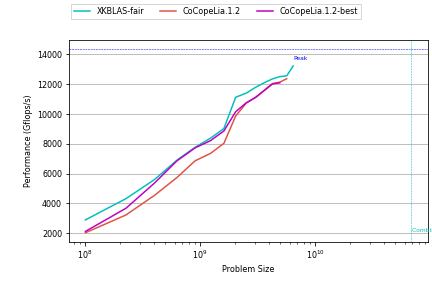
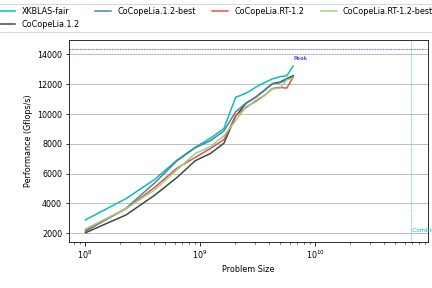
Fixed Rare bug with EXCLUSIVE state, after Datacaching updated.

Changed region(s): [[0.0, 0.0, 1.0, 0.125], [0.1806, 0.25, 0.6921, 0.8125]]

diff --git a/Library_scheduler_03-22/src/Subkernel.cpp b/Library_scheduler_03-22/src/Subkernel.cpp
@@ -169,7 +169,8 @@ void Subkernel::request_tile(short TileIdx){
 			FetchFromId = tmp->RW_master;
 			tmp->RW_master = run_dev_id;
 			if (FetchFromId == run_dev_id) error("Subkernel(dev=%d,id=%d)-Tile(%d.[%d,%d])::request_tile W_flag = %d, \
-			FetchFromId == run_dev_id == %d\n", run_dev_id, id, tmp->id, tmp->GridId1, tmp->GridId2, tmp->W_flag, FetchFromId);
+				FetchFromId == run_dev_id == %d, state[%d] == %s\n",  run_dev_id, id, tmp->id, tmp->GridId1, tmp->GridId2,
+				tmp->W_flag, FetchFromId, FetchFromId, print_state(tmp->StoreBlock[idxize(FetchFromId)]->State));
 		}
 		short FetchFromId_idx = idxize(FetchFromId);
 #ifdef CDEBUG
@@ -234,6 +235,7 @@ void Subkernel::request_data(){
 			Tile1D<VALUE_TYPE>* tmp = (Tile1D<VALUE_TYPE>*) TileList[j];
 			if (tmp->StoreBlock[run_dev_id_idx] == NULL ||
 				tmp->StoreBlock[run_dev_id_idx]->State == INVALID) {
+				if(tmp->StoreBlock[run_dev_id_idx] != NULL) tmp->StoreBlock[run_dev_id_idx]->Owner_p = NULL;
 				state new_block_state;
 				if(tmp->W_flag) new_block_state = EXCLUSIVE;
 				else new_block_state = SHARABLE;
@@ -283,6 +285,7 @@ void Subkernel::request_data(){
 			Tile2D<VALUE_TYPE>* tmp = (Tile2D<VALUE_TYPE>*) TileList[j];
 			if (tmp->StoreBlock[run_dev_id_idx] == NULL ||
 				tmp->StoreBlock[run_dev_id_idx]->State == INVALID) {
+				if(tmp->StoreBlock[run_dev_id_idx] != NULL) tmp->StoreBlock[run_dev_id_idx]->Owner_p = NULL;
 				state new_block_state;
 				if(tmp->W_flag) new_block_state = EXCLUSIVE;
 				else new_block_state = SHARABLE;
@@ -383,7 +386,8 @@ void Subkernel::run_operation(){
 	for (int j = 0; j < TileNum; j++){
 		if (TileDimlist[j] == 1){
 				Tile1D<VALUE_TYPE>* tmp = (Tile1D<VALUE_TYPE>*) TileList[j];
-				if (tmp->StoreBlock[run_dev_id_idx] == NULL)
+				if (tmp->StoreBlock[run_dev_id_idx] == NULL ||
+  tmp->StoreBlock[run_dev_id_idx]->State == INVALID)
 					error("Subkernel(dev=%d,id=%d)-Tile(%d.[%d])::run_operation: Tile(j=%d) Storeblock is NULL\n",
 						run_dev_id, id, tmp->id, tmp->GridId, j);
 				if(tmp->R_flag) exec_queue[run_dev_id_idx]->wait_for_event(tmp->StoreBlock[run_dev_id_idx]->Available);
@@ -393,7 +397,8 @@ void Subkernel::run_operation(){
 		}
 		else if (TileDimlist[j] == 2){
 				Tile2D<VALUE_TYPE>* tmp = (Tile2D<VALUE_TYPE>*) TileList[j];
-				if (tmp->StoreBlock[run_dev_id_idx] == NULL)
+				if (tmp->StoreBlock[run_dev_id_idx] == NULL ||
+  tmp->StoreBlock[run_dev_id_idx]->State == INVALID)
 					error("Subkernel(dev=%d,id=%d)-Tile(%d.[%d,%d])::run_operation: Tile(j=%d) Storeblock is NULL\n",
 						run_dev_id, id, tmp->id, tmp->GridId1, tmp->GridId2, j);
 				if(tmp->R_flag) exec_queue[run_dev_id_idx]->wait_for_event(tmp->StoreBlock[run_dev_id_idx]->Available);
@@ -418,7 +423,8 @@ void Subkernel::run_operation(){
 	for (int j = 0; j < TileNum; j++){
 		if (TileDimlist[j] == 1){
 			Tile1D<VALUE_TYPE>* tmp = (Tile1D<VALUE_TYPE>*) TileList[j];
-			if (tmp->StoreBlock[run_dev_id_idx] == NULL)
+			if (tmp->StoreBlock[run_dev_id_idx] == NULL ||
+  tmp->StoreBlock[run_dev_id_idx]->State == INVALID)
 				error("Subkernel(dev=%d,id=%d)-Tile(%d.[%d])::run_operation: Tile(j=%d) Storeblock is NULL\n",
 					run_dev_id, id, tmp->id, tmp->GridId, j);
 			CBlock_wrap_p wrap_oper = NULL;
@@ -427,8 +433,8 @@ void Subkernel::run_operation(){
 			wrap_oper->lockfree = false;
 			if(tmp->W_flag){
 				exec_queue[run_dev_id_idx]->add_host_func((void*)&CBlock_RW_wrap, (void*) wrap_oper);
-				Ptr_int_p wrapped_op = (Ptr_int_p) malloc(sizeof(struct Ptr_int));
-				wrapped_op->int_ptr = &tmp->RW_lock_holders;
+				Ptr_atomic_int_p wrapped_op = (Ptr_atomic_int_p) malloc(sizeof(struct Ptr_atomic_int));
+				wrapped_op->ato_int_ptr = &tmp->RW_lock_holders;
 				exec_queue[run_dev_id_idx]->add_host_func((void*)&CoCoDecAsync, (void*) wrapped_op);
 			}
 			else exec_queue[run_dev_id_idx]->add_host_func((void*)&CBlock_RR_wrap, (void*) wrap_oper);
@@ -441,7 +447,8 @@ void Subkernel::run_operation(){
 		}
 		else if (TileDimlist[j] == 2){
 			Tile2D<VALUE_TYPE>* tmp = (Tile2D<VALUE_TYPE>*) TileList[j];
-			if (tmp->StoreBlock[run_dev_id_idx] == NULL)
+			if (tmp->StoreBlock[run_dev_id_idx] == NULL ||
+  tmp->StoreBlock[run_dev_id_idx]->State == INVALID)
 				error("Subkernel(dev=%d,id=%d)-Tile(%d.[%d,%d])::run_operation: Tile(j=%d) Storeblock is NULL\n",
 					run_dev_id, id, tmp->id, tmp->GridId1, tmp->GridId2, j);
 			CBlock_wrap_p wrap_oper = NULL;
@@ -450,8 +457,8 @@ void Subkernel::run_operation(){
 			wrap_oper->lockfree = false;
 			if(tmp->W_flag){
 				exec_queue[run_dev_id_idx]->add_host_func((void*)&CBlock_RW_wrap, (void*) wrap_oper);
-				Ptr_int_p wrapped_op = (Ptr_int_p) malloc(sizeof(struct Ptr_int));
-				wrapped_op->int_ptr = &tmp->RW_lock_holders;
+				Ptr_atomic_int_p wrapped_op = (Ptr_atomic_int_p) malloc(sizeof(struct Ptr_atomic_int));
+				wrapped_op->ato_int_ptr = &tmp->RW_lock_holders;
 				exec_queue[run_dev_id_idx]->add_host_func((void*)&CoCoDecAsync, (void*) wrapped_op);
 			}
 			else exec_queue[run_dev_id_idx]->add_host_func((void*)&CBlock_RR_wrap, (void*) wrap_oper);
@@ -486,7 +493,8 @@ void Subkernel::writeback_data(){
 	for (int j = 0; j < TileNum; j++) if (WR_last[j]){
 		if (TileDimlist[j] == 1){
 			Tile1D<VALUE_TYPE>* tmp = (Tile1D<VALUE_TYPE>*) TileList[j];
-			if (tmp->StoreBlock[run_dev_id_idx] == NULL)
+			if (tmp->StoreBlock[run_dev_id_idx] == NULL ||
+  tmp->StoreBlock[run_dev_id_idx]->State == INVALID)
 				error("Subkernel(dev=%d,id=%d)-Tile(%d.[%d])::writeback_data: Tile(j=%d) Storeblock is NULL\n",
 					run_dev_id, id, tmp->id, tmp->GridId, j);
 			Writeback_id = tmp->getWriteBackLoc(); //to MASTER
@@ -530,7 +538,8 @@ void Subkernel::writeback_data(){
 		}
 		else if (TileDimlist[j] == 2){
 			Tile2D<VALUE_TYPE>* tmp = (Tile2D<VALUE_TYPE>*) TileList[j];
-			if (tmp->StoreBlock[run_dev_id_idx] == NULL)
+			if (tmp->StoreBlock[run_dev_id_idx] == NULL ||
+  tmp->StoreBlock[run_dev_id_idx]->State == INVALID)
 				error("Subkernel(dev=%d,id=%d)-Tile(%d.[%d,%d])::writeback_data: Tile(j=%d) Storeblock is NULL\n",
 					run_dev_id, id, tmp->id, tmp->GridId1, tmp->GridId2, j);
 			Writeback_id = tmp->getWriteBackLoc(); //to MASTER
@@ -777,30 +786,30 @@ void Subkernel::prepare_launch(short dev_id){
 		if (TileDimlist[j] == 1){
 			Tile1D<VALUE_TYPE>* tmp = (Tile1D<VALUE_TYPE>*) TileList[j];
 			if(tmp->W_flag) {
-				if(tmp->RW_lock_holders > 0 && tmp->RW_lock != dev_id)
+				if(tmp->RW_lock_holders.load() > 0 && tmp->RW_lock != dev_id)
 					error("Subkernel(dev=%d,id=%d)-Tile(%d.[%d])::prepare_launch: Tile(j=%d) has RW_lock = %d with RW_lock_holders = %d\n",
-						run_dev_id, id, tmp->id, tmp->GridId, j, tmp->RW_lock, tmp->RW_lock_holders);
+						run_dev_id, id, tmp->id, tmp->GridId, j, tmp->RW_lock, tmp->RW_lock_holders.load());
 				if (tmp->W_total == tmp->W_flag) WR_first = 1;
 				tmp->RW_lock = dev_id;
 				tmp->RW_lock_holders++;
 #ifdef DEBUG
 				lprintf(lvl, "Subkernel(dev=%d,id=%d)-Tile(%d.[%d])::prepare_launch: Tile(j=%d) has RW_lock = %d with RW_lock_holders = %d\n",
-					run_dev_id, id, tmp->id, tmp->GridId, j, tmp->RW_lock, tmp->RW_lock_holders);
+					run_dev_id, id, tmp->id, tmp->GridId, j, tmp->RW_lock, tmp->RW_lock_holders.load());
 #endif
 			}
 		}
 		else if (TileDimlist[j] == 2){
 			Tile2D<VALUE_TYPE>* tmp = (Tile2D<VALUE_TYPE>*) TileList[j];
 			if(tmp->W_flag) {
-				if(tmp->RW_lock_holders > 0 && tmp->RW_lock != dev_id)
+				if(tmp->RW_lock_holders.load() > 0 && tmp->RW_lock != dev_id)
 					error("Subkernel(dev=%d,id=%d)-Tile(%d.[%d,%d])::prepare_launch: Tile(j=%d) has RW_lock = %d with RW_lock_holders = %d\n",
-						run_dev_id, id, tmp->id, tmp->GridId1, tmp->GridId2, j, tmp->RW_lock, tmp->RW_lock_holders);
+						run_dev_id, id, tmp->id, tmp->GridId1, tmp->GridId2, j, tmp->RW_lock, tmp->RW_lock_holders.load());
 				if (tmp->W_total == tmp->W_flag) WR_first = 1;
 				tmp->RW_lock = dev_id;
 				tmp->RW_lock_holders++;
 #ifdef DEBUG
 				lprintf(lvl, "Subkernel(dev=%d,id=%d)-Tile(%d.[%d,%d])::prepare_launch: Tile(j=%d) has RW_lock = %d with RW_lock_holders = %d\n",
-					run_dev_id, id, tmp->id, tmp->GridId1, tmp->GridId2, j, tmp->RW_lock, tmp->RW_lock_holders);
+					run_dev_id, id, tmp->id, tmp->GridId1, tmp->GridId2, j, tmp->RW_lock, tmp->RW_lock_holders.load());
 #endif
 			}
 		}
@@ -814,11 +823,11 @@ short Subkernel::no_locked_tiles(){
 	for (int j = 0; j < TileNum; j++){
 		if (TileDimlist[j] == 1){
 			Tile1D<VALUE_TYPE>* tmp = (Tile1D<VALUE_TYPE>*) TileList[j];
-			if(tmp->RW_lock_holders) return 0;
+			if(tmp->RW_lock_holders.load() > 0 ) return 0;
 		}
 		else if (TileDimlist[j] == 2){
 			Tile2D<VALUE_TYPE>* tmp = (Tile2D<VALUE_TYPE>*) TileList[j];
-			if(tmp->RW_lock_holders) return 0;
+			if(tmp->RW_lock_holders.load() > 0) return 0;
 		}
 		else error("Subkernel(dev=%d,id=%d)::writeback_data: Not implemented for TileDim=%d\n", run_dev_id, id, TileDimlist[j]);
 	}
@@ -832,12 +841,12 @@ short Subkernel::is_RW_lock_master(short dev_id){
 		if (TileDimlist[j] == 1){
 			Tile1D<VALUE_TYPE>* tmp = (Tile1D<VALUE_TYPE>*) TileList[j];
 			if(tmp->W_flag && /*tmp->W_total != tmp->W_flag &&*/ tmp->RW_lock!=dev_id) return 0;
-			else if(tmp->W_flag && tmp->RW_lock==dev_id) RW_lock_Hos = tmp->RW_lock_holders;
+			else if(tmp->W_flag && tmp->RW_lock==dev_id) RW_lock_Hos = tmp->RW_lock_holders.load();
 		}
 		else if (TileDimlist[j] == 2){
 			Tile2D<VALUE_TYPE>* tmp = (Tile2D<VALUE_TYPE>*) TileList[j];
 			if(tmp->W_flag && /*tmp->W_total != tmp->W_flag &&*/ tmp->RW_lock!=dev_id) return 0;
-			else if(tmp->W_flag && tmp->RW_lock==dev_id) RW_lock_Hos = tmp->RW_lock_holders;
+			else if(tmp->W_flag && tmp->RW_lock==dev_id) RW_lock_Hos = tmp->RW_lock_holders.load();
 		}
 	}
 	return RW_lock_Hos;

diff --git a/Benchmarking/CuCuBLAS/src/CoCoPeLiaDgemmTester.cpp b/Benchmarking/CuCuBLAS/src/CoCoPeLiaDgemmTester.cpp
@@ -318,7 +318,7 @@ int main(const int argc, const char *argv[]) {
 		ret_autotune_val = CoCopeLiaDgemm(TransA, TransB, M, N, K, alpha, A, ldA, B, ldB, beta, C , ldC);
 		CoCoSyncCheckErr();
 		cpu_timer  = csecond() - cpu_timer;
-		for (int i = 0; i< ret_autotune_val->dev_num; i++) CoCopeLiaDevCacheFree(ret_autotune_val->dev_ids[i]);
+		for (int i = 0; i< LOC_NUM; i++) CoCopeLiaDevCacheFree(deidxize(i));
 		CoCoSyncCheckErr();
 		double comp_flops = Gval_per_s(dgemm_flops(M,N,K),cpu_timer);
 		fprintf(stderr, "M=%zu, N=%zu, K=%zu: Gflops/s -> ", M, N, K);
@@ -349,7 +349,7 @@ int main(const int argc, const char *argv[]) {
 		ret_autotune_val = CoCopeLiaDgemm(TransA, TransB, M, N, K, alpha, A, ldA, B, ldB, beta, C , ldC);
 		CoCoSyncCheckErr();
 		cpu_timer  = csecond() - cpu_timer;
-		for (int i = 0; i< ret_autotune_val->dev_num; i++) CoCopeLiaDevCacheFree(ret_autotune_val->dev_ids[i]);
+		for (int i = 0; i< LOC_NUM; i++) CoCopeLiaDevCacheFree(deidxize(i));
 		CoCoSyncCheckErr();
 		comp_flops = Gval_per_s(dgemm_flops(M,N,K),cpu_timer);
 		fprintf(stderr, "M=%zu, N=%zu, K=%zu: Gflops/s -> ", M, N, K);
@@ -378,7 +378,7 @@ int main(const int argc, const char *argv[]) {
 		ret_autotune_val = CoCopeLiaDgemm(TransA, TransB, M, N, K, alpha, A, ldA, B, ldB, beta, C , ldC);
 		CoCoSyncCheckErr();
 		cpu_timer  = csecond() - cpu_timer;
-		for (int i = 0; i< ret_autotune_val->dev_num; i++) CoCopeLiaDevCacheFree(ret_autotune_val->dev_ids[i]);
+		for (int i = 0; i< LOC_NUM; i++) CoCopeLiaDevCacheFree(deidxize(i));
 		CoCoSyncCheckErr();
 		comp_flops = Gval_per_s(dgemm_flops(M,N,K),cpu_timer);
 		fprintf(stderr, "M=%zu, N=%zu, K=%zu: Gflops/s -> ", M, N, K);
@@ -454,7 +454,7 @@ int main(const int argc, const char *argv[]) {
 		ret_autotune_val = CoCopeLiaDgemm(TransA, TransB, M, N, K, alpha, A, ldA, B, ldB, beta, C , ldC);
 		CoCoSyncCheckErr();
 		cpu_timer  = csecond() - cpu_timer;
-		for (int i = 0; i< ret_autotune_val->dev_num; i++) CoCopeLiaDevCacheFree(ret_autotune_val->dev_ids[i]);
+		for (int i = 0; i< LOC_NUM; i++) CoCopeLiaDevCacheFree(deidxize(i));
 		CoCoSyncCheckErr();
 		double comp_flops =  Gval_per_s(dgemm_flops(M,N,K),cpu_timer);
 		fprintf(stderr, "M=%zu,N=%zu,K=%zu: Gflops/s -> ", M, N, K);
@@ -482,7 +482,7 @@ int main(const int argc, const char *argv[]) {
 		ret_autotune_val = CoCopeLiaDgemm(TransA, TransB, M, N, K, alpha, A, ldA, B, ldB, beta, C , ldC);
 		CoCoSyncCheckErr();
 		cpu_timer  = csecond() - cpu_timer;
-		for (int i = 0; i< ret_autotune_val->dev_num; i++) CoCopeLiaDevCacheFree(ret_autotune_val->dev_ids[i]);
+		for (int i = 0; i< LOC_NUM; i++) CoCopeLiaDevCacheFree(deidxize(i));
 		CoCoSyncCheckErr();
 		comp_flops =  Gval_per_s(dgemm_flops(M,N,K),cpu_timer);
 		fprintf(stderr, "M=%zu,N=%zu,K=%zu: Gflops/s -> ", M, N, K);

diff --git a/Library_scheduler_03-22/src/Tile2D.cpp b/Library_scheduler_03-22/src/Tile2D.cpp
@@ -92,7 +92,7 @@ template<typename dtype> short Tile2D<dtype>::getClosestReadLoc(short dev_id_in)
       //  error("Tile2D(%d)::getClosestReadLoc(%d): Should not be called, Tile already available in %d.\n",  id, dev_id_in, dev_id_in);
       continue;
     }
-    StoreBlock[pos]->update_state(false);
+    //StoreBlock[pos]->update_state(false);
     state temp = StoreBlock[pos]->State;
     if (temp == AVAILABLE || temp == SHARABLE || temp == NATIVE){
       event_status block_status = StoreBlock[pos]->Available->query_status();
@@ -111,7 +111,7 @@ template<typename dtype> short Tile2D<dtype>::getClosestReadLoc(short dev_id_in)
   CBlock_p temp_outblock = StoreBlock[pos_min];
   if(temp_outblock != NULL){
     temp_outblock->lock();
-    temp_outblock->update_state(true);
+    //temp_outblock->update_state(true);
     state temp = temp_outblock->State;
     event_status block_status = temp_outblock->Available->query_status();
     if ((temp == AVAILABLE || temp == SHARABLE || temp == NATIVE) &&
@@ -138,7 +138,7 @@ template<typename dtype> double Tile2D<dtype>::getMinLinkCost(short dev_id_in){
   double link_cost_min = 10000000;
   for (int pos =0; pos < LOC_NUM; pos++){
     if(StoreBlock[pos] == NULL) continue;
-    StoreBlock[pos]->update_state(false);
+    //StoreBlock[pos]->update_state(false);
     state temp = StoreBlock[pos]->State;
     if (temp == AVAILABLE || temp == SHARABLE || temp == NATIVE){
       event_status block_status = StoreBlock[pos]->Available->query_status();

diff --git a/Benchmarking/CuCuBLAS/src/CoCoPeLiaDaxpyRunnerBest.cpp b/Benchmarking/CuCuBLAS/src/CoCoPeLiaDaxpyRunnerBest.cpp
@@ -95,7 +95,7 @@ int main(const int argc, const char *argv[]) {
 	}
 	fprintf(stderr, "\nCoCopeLia DAXPY T_best = %zu : t = %lf ms ( %lf Gflops/s )\n\n", best_T, best_t  * 1000, Gval_per_s(daxpy_flops(N),best_t));
 	predef_control_values-> T = best_T;
-	for (int i = 0; i< return_values->dev_num; i++) CoCopeLiaDevCacheFree(return_values->dev_ids[i]);
+	for (int i = 0; i< LOC_NUM; i++) CoCopeLiaDevCacheFree(deidxize(i));
 
 #ifdef RUNVALIDATION
 	double *y_out, *y_out1;
@@ -108,7 +108,7 @@ int main(const int argc, const char *argv[]) {
 	if (predef_control_values!= NULL) return_values = CoCopeLiaDaxpyControled(N, alpha, x, incx, y, incy, predef_control_values);
 	else return_values = CoCopeLiaDaxpy(N, alpha, x, incx, y, incy);
 	CoCoSyncCheckErr();
-	for (int i = 0; i< return_values->dev_num; i++) CoCopeLiaDevCacheFree(return_values->dev_ids[i]);
+	for (int i = 0; i< LOC_NUM; i++) CoCopeLiaDevCacheFree(deidxize(i));
 
 	CoCoMemcpy(y_out, y, N * incy *sizeof(double), -2, y_loc);
 	CoCoMemcpy(y, y_buf, N * incy *sizeof(double), y_loc, -2);
@@ -180,7 +180,7 @@ int main(const int argc, const char *argv[]) {
 	min_t  * 1000, Gval_per_s(daxpy_flops(N),min_t),
 	max_t  * 1000, Gval_per_s(daxpy_flops(N),max_t));
 
-	for (int i = 0; i< return_values->dev_num; i++) CoCopeLiaDevCacheFree(return_values->dev_ids[i]);
+	for (int i = 0; i< LOC_NUM; i++) CoCopeLiaDevCacheFree(deidxize(i));
 
 	CoCoSyncCheckErr();
 	CoCoFree(x, x_loc);

diff --git a/Library_scheduler_03-22/src/Functions/dgemm.cpp b/Library_scheduler_03-22/src/Functions/dgemm.cpp
@@ -27,7 +27,6 @@ int MGridSz = 0, NGridSz = 0, KGridSz = 0;
 double gemm_entry_ts;
 #endif
 
-#include <atomic>
 Subkernel** Subkernel_list;
 int Subkernel_num;
 
@@ -346,7 +345,7 @@ CoControl_p CoCopeLiaDgemm(char TransA,  char TransB, size_t M, size_t N, size_t
 
 	size_t T = autotuned_vals->T;
 
-	int Block_num = (A_asset->dim1/T + ((A_asset->dim1%T)? 1 : 0))* (A_asset->dim2/T + ((A_asset->dim2%T)? 1 : 0)) +
+	int Block_num = 1 + (A_asset->dim1/T + ((A_asset->dim1%T)? 1 : 0))* (A_asset->dim2/T + ((A_asset->dim2%T)? 1 : 0)) +
 				(B_asset->dim1/T + ((B_asset->dim1%T)? 1 : 0))* (B_asset->dim2/T + ((B_asset->dim2%T)? 1 : 0)) +
 				(C_asset->dim1/T + ((C_asset->dim1%T)? 1 : 0))* (C_asset->dim2/T + ((C_asset->dim2%T)? 1 : 0));
 	long long Block_sz = 	T*T*sizeof(VALUE_TYPE);

diff --git a/Library_scheduler_03-22/include/Asset.hpp b/Library_scheduler_03-22/include/Asset.hpp
@@ -12,6 +12,7 @@
 
 #include "CoCoPeLiaModel.hpp"
 #include "DataCaching.hpp"
+#include <atomic>
 
 template <typename dtype>
 class Tile1D
@@ -26,7 +27,8 @@ class Tile1D
 #ifdef ENABLE_PARALLEL_BACKEND
 		int RW_Master_backend_ctr;
 #endif
-		int RW_lock, RW_lock_holders;
+		int RW_lock;
+		std::atomic<int> RW_lock_holders;
 		CBlock_p WriteBackBlock;
 		CBlock_p StoreBlock[LOC_NUM];
 
@@ -61,7 +63,8 @@ class Tile2D
 		int id, GridId1, GridId2;
 		int dim1, dim2;
 		int R_flag, W_flag, W_total, RW_master;
-		int RW_lock, RW_lock_holders;
+		int RW_lock;
+		std::atomic<int> RW_lock_holders;
 #ifdef ENABLE_PARALLEL_BACKEND
 		int RW_Master_backend_ctr;
 #endif

diff --git a/Benchmarking/CuCuBLAS/src/CoCoPeLiaDgemmRunnerBest.cpp b/Benchmarking/CuCuBLAS/src/CoCoPeLiaDgemmRunnerBest.cpp
@@ -14,8 +14,6 @@
 #define CBLASXT_MAX_SAFE_TILE 10000
 
 int main(const int argc, const char *argv[]) {
-
-
 	char TransA, TransB;
   	double alpha, beta;
 	size_t M, N, K;
@@ -104,7 +102,7 @@ int main(const int argc, const char *argv[]) {
 	}
 	fprintf(stderr, "\nCoCopeLia DGEMM T_best = %zu : t = %lf ms ( %lf Gflops/s )\n\n", best_T, best_t  * 1000, Gval_per_s(dgemm_flops(M,N,K),best_t));
 	predef_control_values-> T = best_T;
-	for (int i = 0; i< return_values->dev_num; i++) CoCopeLiaDevCacheFree(return_values->dev_ids[i]);
+	for (int i = 0; i< LOC_NUM; i++) CoCopeLiaDevCacheFree(deidxize(i));
 
 #ifdef RUNVALIDATION
 	double *C_out, *C_out1;

diff --git a/Benchmarking/CuCuBLAS/src/testing.cpp b/Benchmarking/CuCuBLAS/src/testing.cpp
@@ -48,15 +48,19 @@ char* CoCoImplementationPrint(){
 }
 
 char* CoCoDistributionPrint(){
-#ifndef RUNTIME_SCHEDULER_VERSION
 	char* string_out = (char*) malloc (256*sizeof(char));
+#ifdef RUNTIME_SCHEDULER_VERSION
 #ifdef DISTRIBUTION
-	sprintf(string_out, "%s", DISTRIBUTION);
+	sprintf(string_out, "RT-%s", DISTRIBUTION);
 #else
 #error
 #endif
 #else
-	char* string_out = "";
+#ifdef DISTRIBUTION
+	sprintf(string_out, "ST-%s", DISTRIBUTION);
+#else
+#error
+#endif
 #endif
 	return string_out;
 }

diff --git a/Universal_helpers/CuCuBLAS/backend_wrappers.hpp b/Universal_helpers/CuCuBLAS/backend_wrappers.hpp
@@ -74,9 +74,9 @@ void CoCoQueueLock(void* wrapped_lock);
 void CoCoQueueUnlock(void* wrapped_lock);
 
 // Struct containing an int pointer
-typedef struct Ptr_int{
-	int* int_ptr;
-}* Ptr_int_p;
+typedef struct Ptr_atomic_int{
+	std::atomic<int>* ato_int_ptr;
+}* Ptr_atomic_int_p;
 void CoCoIncAsync(void* wrapped_ptr_int);
 void CoCoDecAsync(void* wrapped_ptr_int);
 

diff --git a/Universal_helpers/include/unihelpers.hpp b/Universal_helpers/include/unihelpers.hpp
@@ -16,6 +16,8 @@
 #include <stdio.h>
 #include <stdarg.h>
 
+#include <atomic>
+
 #ifndef LOC_NUM
 #define LOC_NUM (DEV_NUM + 1)
 #endif
